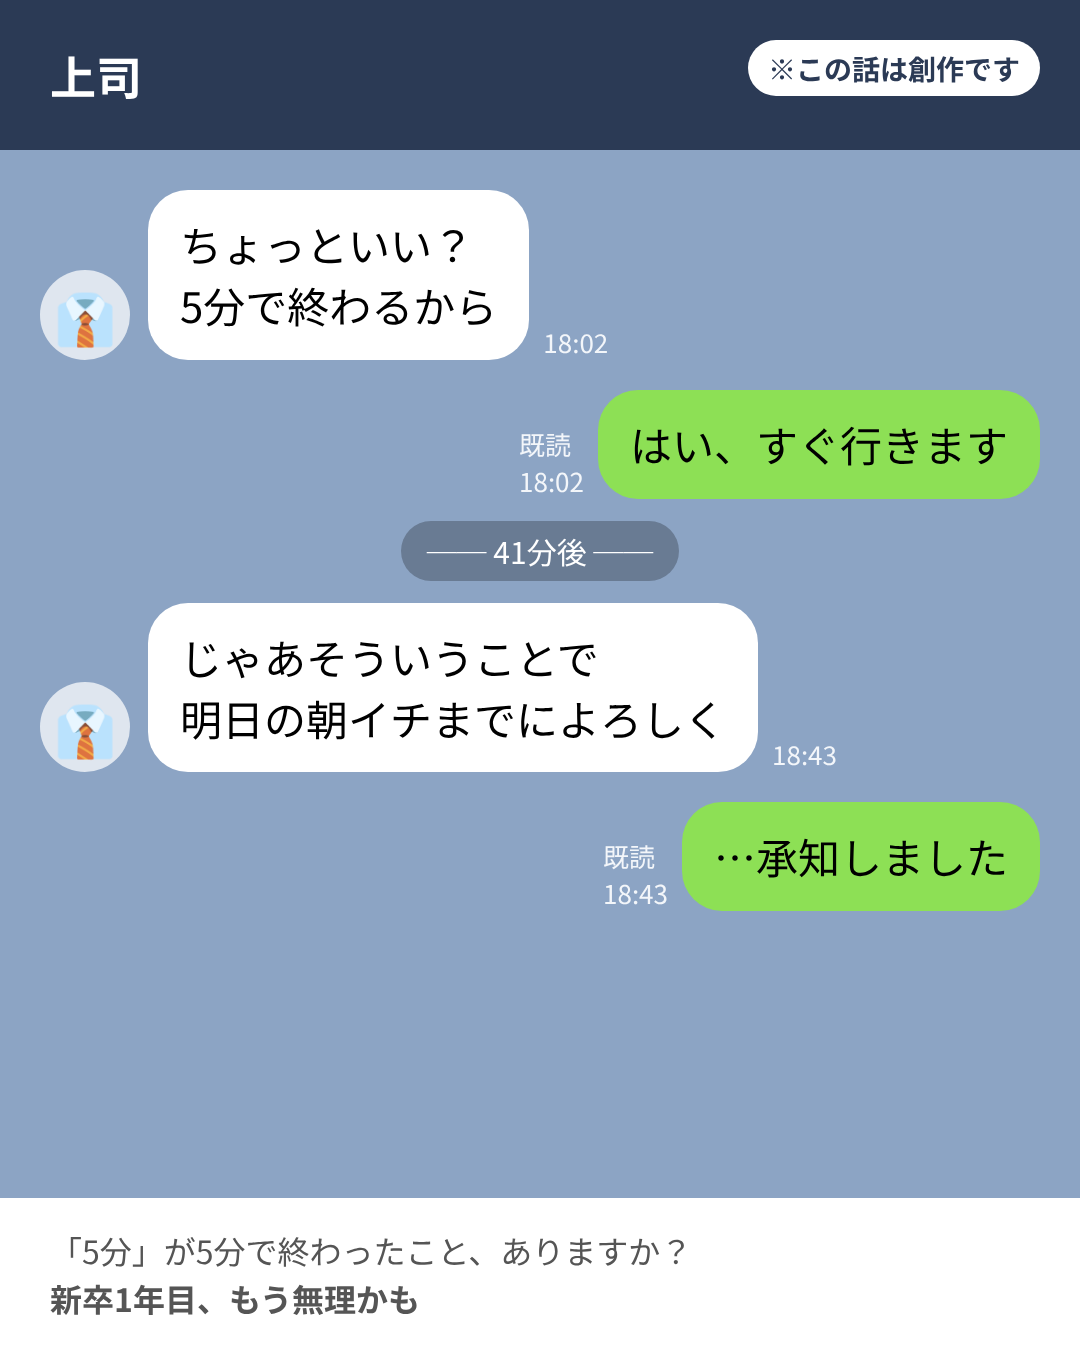
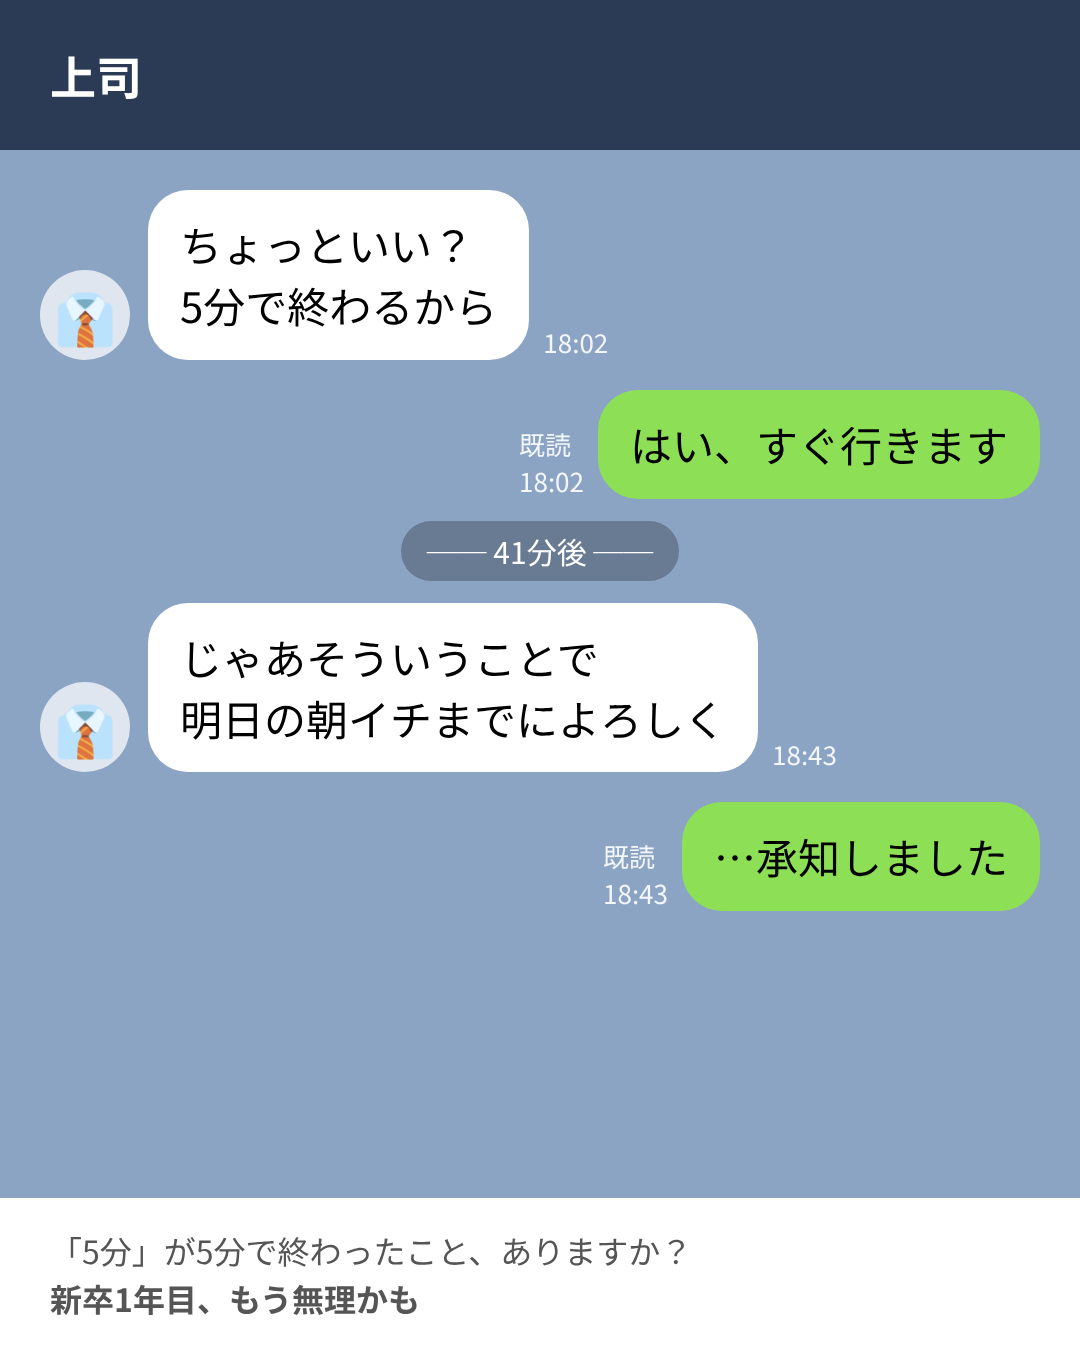
創作ラベルを外す方針に合わせて画像と説明を更新
Claude-Session: https://claude.ai/code/session_01X3tavkvAm4Sddc6W51FicJ

Changed region(s): [[0.6722, 0.0311, 0.9778, 0.0933]]

diff --git a/tools/render.py b/tools/render.py
@@ -1,7 +1,7 @@
 """SNS画像の生成。使い方: python3 render.py spec.json 出力.png
 spec の type: line(トーク画面風) / memo(メモ帳風) / check(あてはまりチェック)
 共通: account(kango/hoiku/daini/main)。必要なフォント: Noto Sans CJK JP / Noto Color Emoji
-line : title(相手の名前), fiction(true なら「※この話は創作です」), messages=[{from:"them"|"me"|"sys", text, time}], footer(問いかけ)
+line : title(相手の名前), fiction(既定 false。ラベルは付けない方針(11/5 ユーザー判断)), messages=[{from:"them"|"me"|"sys", text, time}], footer(問いかけ)
 memo : time(例 "7:42"), title, items=[...](**で囲むとマーカー), footer(省略可)
 check: lead, title, items=[...], result(**で囲むとマーカー)
 """

diff --git a/README.md b/README.md
@@ -8,4 +8,4 @@ SNS投稿用の画像置き場(自動生成)。
 - 作った画像は `images/<アカウント>/` に置き、push 後の URL
   `https://raw.githubusercontent.com/however1006/sns-images/main/images/<アカウント>/<投稿ID>.png`
   を投稿キューの U列「画像URL」に入れる
-- 「line」で作り話を描くときは必ず `"fiction": true`(画像に「※この話は創作です」が入る)
+- 作り話のラベルは付けない(11/5 ユーザー判断)。ただし運営者本人の体験やスクショに見せない(よくある場面の再現として描く)
